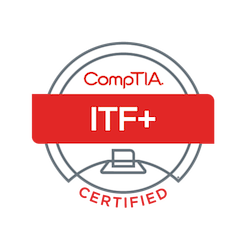
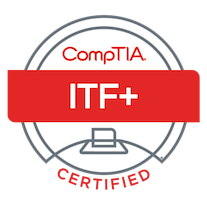
added certifications and contact

Changed region(s): [[0.029, 0.0603, 0.9855, 0.9648]]

diff --git a/styles/main.css b/styles/main.css
@@ -11,7 +11,7 @@
 
     /* Text */
     --Color-Text-Main: #E6FAFC;
-    --Color-Text-Muted: #cedcdd;
+    --Color-Text-Muted: #c5d0d1;
 }
 
 /* Whole document css */
@@ -37,7 +37,8 @@ section {
     padding-top: 6em;
 }
 
-section > * { /*Content card, the little blur effect*/
+section>*:not(h2) {
+    /*Content card, the little blur effect*/
     background: var(--Color-Card-Background);
     backdrop-filter: blur(10px);
     box-shadow: 0 8px 20px rgba(0, 0, 0, 0.3);
@@ -50,7 +51,7 @@ section > * { /*Content card, the little blur effect*/
     transition: .2s;
 }
 
-section > *:hover:not(h2) {
+section>*:hover:not(h2):not(.Contact_Card) {
     transform: translate(0, -5px);
     transition: .2s;
 }
@@ -66,9 +67,25 @@ h2 {
     width: fit-content;
 }
 
+h2::after {
+    content: "";
+    position: sticky;
+    display: block;
+    justify-self: center;
+
+    grid-column: span 2;
+    width: 250%;
+    height: 2px;
+
+    background: linear-gradient(to right, transparent, var(--Color-Text-Muted), transparent);
+}
+
 img {
-    min-width: 100px;
-    min-height: 100px;
+    max-width: 300px;
+    max-height: 300px;
+
+    border-radius: 10px;
+    box-shadow: 5px 5px 10px 5px var(--Color-BG-Main-Transparent);
 }
 
 a {
@@ -97,7 +114,7 @@ a {
     background-size: 175%;
     /* background-repeat: no-repeat; */
 
-    animation: moveBG 15s ease-in-out infinite alternate;
+    animation: moveBG 10s ease-in-out infinite alternate;
 }
 
 @keyframes moveBG {
@@ -183,12 +200,7 @@ nav>a {
 }
 
 #Home>article>h2::after {
-    content: "";
-    position: sticky;
-    display: block;
-
-    width: 80%;
-    height: 2px;
+    width: 100%;
     margin: 0.5em 0;
 
     background: linear-gradient(to right, var(--Color-Text-Muted), transparent);
@@ -229,14 +241,15 @@ nav>a {
 
 /* About Me */
 
-.Abt_Content{
+.Abt_Content {
     display: flex;
     justify-content: space-around;
 }
 
 
-.Abt_Content > img {
+.Abt_Content>article {
     padding: 0 2em;
+    align-self: center;
 }
 
 /* Experience */
@@ -247,20 +260,20 @@ nav>a {
     grid-template-rows: .2fr 1fr 3fr;
 }
 
-#Experience > div {
+#Experience>div {
     margin: 1em;
 }
 
-#Experience > h2 {
+#Experience>h2 {
     grid-column: span 2;
 }
 
-#Experience > div > h3 {
+#Experience>div>h3 {
     text-align: center;
     margin: 0;
 }
 
-#Experience > #languages {
+#Experience>#languages {
     grid-row: span 2;
 }
 
@@ -273,12 +286,107 @@ nav>a {
     justify-content: center;
 }
 
-#Certifications > h2 {
+#Certifications>h2 {
     margin: 1em 40% 1em 40%;
     width: fit-content;
 }
 
-#Certifications > div {
+#Certifications>div {
     width: 25%;
     margin: .5em;
+}
+
+.Cert_Card {
+    display: grid;
+    grid-template-columns: 3fr 2fr;
+}
+
+.Cert_Card>h4 {
+    width: 100%;
+    grid-column: span 2;
+}
+
+.Cert_Card>img {
+    max-height: 200px;
+    max-width: 200px;
+}
+
+/* Contact */
+
+#Contact {
+    display: flex;
+    justify-content: center;
+    flex-wrap: wrap;
+    gap: 2em;
+
+    text-align: center;
+}
+
+#Contact>h2 {
+    margin: 0 40% 0 40%;
+}
+
+#Contact>.Contact_Card {
+    width: 40%;
+}
+
+#Contact>.Contact_Card>h3 {
+    margin-top: 0;
+}
+
+
+#ContactForm {
+    display: flex;
+    flex-direction: column;
+    gap: 1em;
+}
+
+#ContactForm>input,
+#ContactForm>textarea {
+    background: #ffffff10;
+    color: var(--Color-Text-Main);
+    border: none;
+    border-radius: 8px;
+    padding: 0.75em 1em;
+    font-size: 1em;
+
+    transition: background 0.3s, box-shadow 0.3s;
+}
+
+#ContactForm>input:focus,
+#ContactForm>textarea:focus {
+    outline: none;
+    background: #ffffff20;
+    box-shadow: 0 0 0 2px var(--Color-BG-Tertiary);
+}
+
+#ContactForm>input[type="submit"] {
+    background: var(--Color-BG-Tertiary);
+    color: #fff;
+    cursor: pointer;
+    font-weight: bold;
+    transition: background 0.3s ease;
+}
+
+#ContactForm>input[type="submit"]:hover {
+    background: var(--Color-BG-Secondary);
+}
+
+#ContactForm>input::placeholder,
+#ContactForm>textarea::placeholder {
+    color: var(--Color-Text-Muted);
+}
+
+
+#Contact>#Other-contact {
+    width: fit-content;
+
+    display: flex;
+    flex-direction: column;
+    gap: 1em;
+}
+
+#Contact>#Other-contact>a>img {
+    max-height: 125px;
+    
 }

diff --git a/index.html b/index.html
@@ -25,7 +25,7 @@
 
     <main>
         <section id="Home">
-            <img src="" alt="A photo of Ryan Haug">
+            <img src="Ryan-Haug-Portrait.jpg" alt="A photo of Ryan Haug" style="scale: 1.4;">
 
             <article id="Home-Text">
                 <h2>Full Stack Developer</h2>
@@ -45,7 +45,7 @@
             <h2>About Me</h2>
             <div>
                 <div class="Abt_Content">
-                    <img src="" alt="placeholder">
+                    <img src="Images/MeOnBike.jpg" alt="placeholder">
                     <article>
                         <p>Lorem ipsum dolor sit amet consectetur adipisicing elit. In neque reprehenderit repellendus
                             architecto deserunt quibusdam natus reiciendis omnis asperiores, minima corrupti atque dicta
@@ -62,7 +62,7 @@
                             animi in consequuntur voluptatibus?
                         </p>
                     </article>
-                    <img src="" alt="placeholder">
+                    <img src="Images/Sunset.jpg" alt="placeholder">
                 </div>
             </div>
         </section>
@@ -100,33 +100,65 @@
             <h2>Certifications</h2>
 
             <div class="Cert_Card">
-                <h4></h4>
-                <p></p>
-                <img src="" alt="">
+                <h4>CompTIA ITF+</h4>
+                <p>temp temp temp</p>
+                <img src="Images/CertificationPhotos/comptia-it-fundamentals-itf-certification.1.png"
+                    alt="CompTIA ITF+ badge">
             </div>
 
             <div class="Cert_Card">
-                <h4></h4>
-                <p></p>
-                <img src="" alt="">
+                <h4>IT Specialist HTML and CSS</h4>
+                <p>temp temp temp</p>
+                <img src="Images/CertificationPhotos/it-specialist-html-and-css.png"
+                    alt="IT Specialist html and css badge">
             </div>
 
             <div class="Cert_Card">
-                <h4></h4>
-                <p></p>
-                <img src="" alt="">
+                <h4>Unity Certified Programmer</h4>
+                <p>temp temp temp</p>
+                <img src="Images/CertificationPhotos/unity-certified-user-programmer.png"
+                    alt="unity Certified user badge">
             </div>
 
             <div class="Cert_Card">
-                <h4></h4>
-                <p></p>
-                <img src="" alt="">
+                <h4>Unity Certified VR developer</h4>
+                <p>temp temp temp</p>
+                <img src="Images/CertificationPhotos/unity-certified-user-vr-developer.png"
+                    alt="Unity certified vr developer badge">
             </div>
 
             <div class="Cert_Card">
-                <h4></h4>
-                <p></p>
-                <img src="" alt="">
+                <h4>Unity Certified Artist</h4>
+                <p>temp temp temp</p>
+                <img src="Images/CertificationPhotos/unity-certified-user-artist.png"
+                    alt="Unity certified artist badge">
+            </div>
+        </section>
+
+        <section id="Contact">
+            <h2>Connect With Me</h2>
+            <div class="Contact_Card">
+                <h3>shoot me a message</h3>
+                
+                <form id="ContactForm" action="">
+                    <input type="text" placeholder="Name *" required>
+                    <input type="email" placeholder="example@email.com *" required>
+                    <input type="tel" placeholder="111-111-1111">
+                    <textarea placeholder="Message *" rows="6" required></textarea>
+                    
+                    <input type="submit" value="Send">
+                </form>
+            </div>
+
+            <div id="Other-contact" class="Contact_Card">
+                <h3>My Socials</h3>
+                <a href="">
+                    <img src="Images/LinkedIn_logo.png" alt="linked in photo">
+                </a>
+
+                <a href="">
+                    <img src="Images/github_logo.jpg" alt="Github logo">
+                </a>
             </div>
         </section>
     </main>
